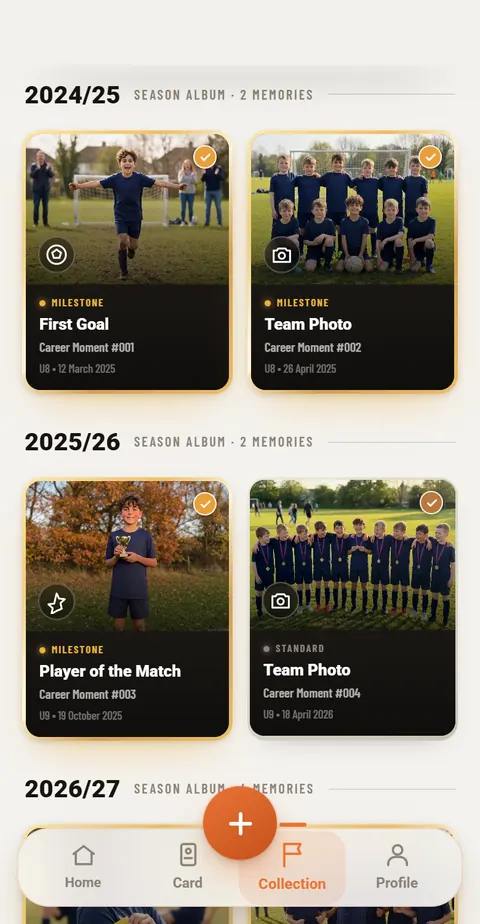
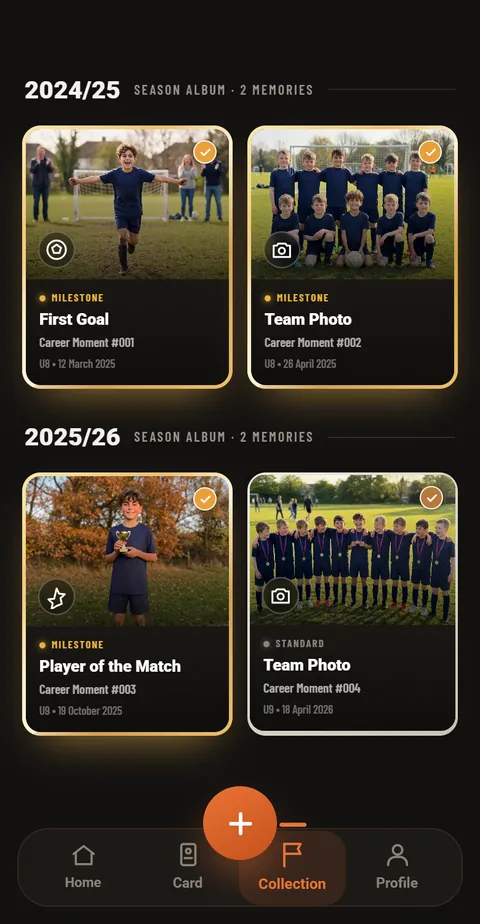
Marketing phones: dark app screens, whole cards, no crop
Homepage hero: the phone now shows the app's own dark mode for contrast,
captured at the first two season albums so four whole memory cards sit
between the notch and the nav (the story banner and later album are hidden
in the capture, so nothing peeks around the nav). The phone is wider (40%,
was 36%) so its glass has exactly the capture's 390x751 shape; before, the
narrower glass cropped about 5% off each side of the cards. The card and
NFC mark move left 2% to make room.

How it works, step 3: the phone was an old mock-up (Ollie Harrison, a real
club crest, maker's logo and a sponsor phone number). It is replaced with
eos-home-dark.webp: the real /os/demo Home in dark mode (fictional Riley
Hart), in a drawn phone frame, same 560x1187 size; the "This season" panel
is hidden so the nav cuts nothing. The old file is removed.

diff --git a/src/app/globals.css b/src/app/globals.css
@@ -10671,7 +10671,7 @@ button.uk-bgremove-frame:disabled { cursor: default; }
 }
 .emh-stage-card {
   position: absolute;
-  left: 7%;
+  left: 5%;
   top: 4%;
   width: 41%;
   aspect-ratio: 5 / 7;
@@ -10705,7 +10705,7 @@ button.uk-bgremove-frame:disabled { cursor: default; }
 }
 .emh-stage-nfc {
   position: absolute;
-  left: 47%;
+  left: 45%;
   top: 42%;
   width: 9%;
   overflow: visible;
@@ -10721,12 +10721,15 @@ button.uk-bgremove-frame:disabled { cursor: default; }
   0%, 100% { opacity: 0.25; }
   40% { opacity: 1; }
 }
+/* Wide enough that the glass has exactly the capture's shape (390 × 751):
+   37.2cqw of glass across, 71.6cqw down, plus 1.4cqw of bezel each side,
+   so object-fit never crops a memory card off the edge. */
 .emh-stage-phone {
   position: absolute;
-  right: 6%;
+  right: 4%;
   top: 0;
-  width: 36%;
-  aspect-ratio: 9 / 18.5;
+  width: 40%;
+  aspect-ratio: 40 / 74.43;
   transform: rotate(4deg);
   padding: 1.4cqw;
   border-radius: 6.4cqw;
@@ -10738,7 +10741,7 @@ button.uk-bgremove-frame:disabled { cursor: default; }
   height: 100%;
   border-radius: 5.2cqw;
   overflow: hidden;
-  background: #f3f1ec;
+  background: #121110;
 }
 /* The captured app screen fills the glass, top-aligned like a real viewport. */
 .emh-phone-screen img { display: block; width: 100%; height: 100%; object-fit: cover; object-position: top; }

diff --git a/src/components/marketing/HeroStage.tsx b/src/components/marketing/HeroStage.tsx
@@ -9,11 +9,13 @@ import { useEffect, useRef, useState, type CSSProperties } from 'react';
  * hero), rebuilt light: Canada renders every card live from full print
  * templates (~30 MB); here each design is one pre-rendered WebP (40–80 KB).
  *
- * The phone shows the real app: a capture of the /os/demo Collection screen,
- * scrolled to the season albums so four photo memories show (fictional sample
- * player, demo banner hidden, status-bar strip cleared under the notch,
- * 390 × 751 at 2x, the phone screen's own ratio) as a 23–45 KB WebP, so no
- * app code or backend request ships with the homepage. The app has no per-design theme, so the phone
+ * The phone shows the real app in its own dark mode, for contrast with the
+ * light page: a capture of the /os/demo Collection screen scrolled to the
+ * first two season albums, so four whole memory cards sit between the notch
+ * and the nav (fictional sample player; demo banner, the story banner and the
+ * later album hidden so no card is cut). 390 × 751 at 2x, exactly the glass's
+ * shape (see .emh-stage-phone), as a 23–46 KB WebP, so no app code or backend
+ * request ships with the homepage. The app has no per-design theme, so the phone
  * keeps its colours when the card design changes.
  *
  * - Only the first design is in the server HTML. The others mount after the

diff --git a/src/app/HomeEffects.tsx b/src/app/HomeEffects.tsx
@@ -495,7 +495,7 @@ export function DigitalProfilePreview(props: {
           <span className="emh-dp-nfc" aria-hidden="true"><span /><span /></span>
           <img
             className="emh-dp-reveal-phone"
-            src={`${optimizedAssetPath}/eos-home.webp`}
+            src={`${optimizedAssetPath}/eos-home-dark.webp`}
             alt="Emblem digital profile on a phone"
             loading="lazy"
             decoding="async"
@@ -680,7 +680,7 @@ function StepCard({ step }: { step: (typeof stepCards)[number] }) {
           <>
             <Image src={`${dpAssetPath}/hiw-consistent-card.webp`} alt="" width={420} height={599} loading="lazy" sizes="(max-width: 760px) 38vw, 220px" />
             <span className="emh-hiw-nfc"><i /><i /><i /></span>
-            <Image src={`${dpAssetPath}/eos-home.webp`} alt="" width={180} height={360} loading="lazy" sizes="(max-width: 760px) 32vw, 180px" />
+            <Image src={`${dpAssetPath}/eos-home-dark.webp`} alt="" width={560} height={1187} loading="lazy" sizes="(max-width: 760px) 32vw, 180px" />
           </>
         )}
       </div>
